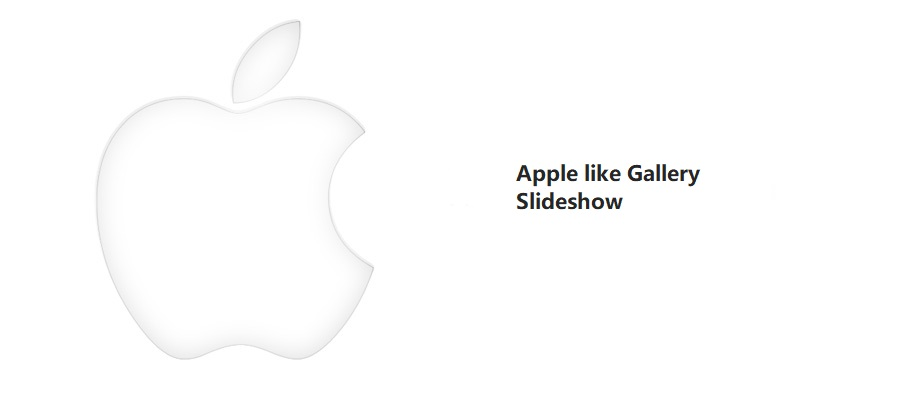
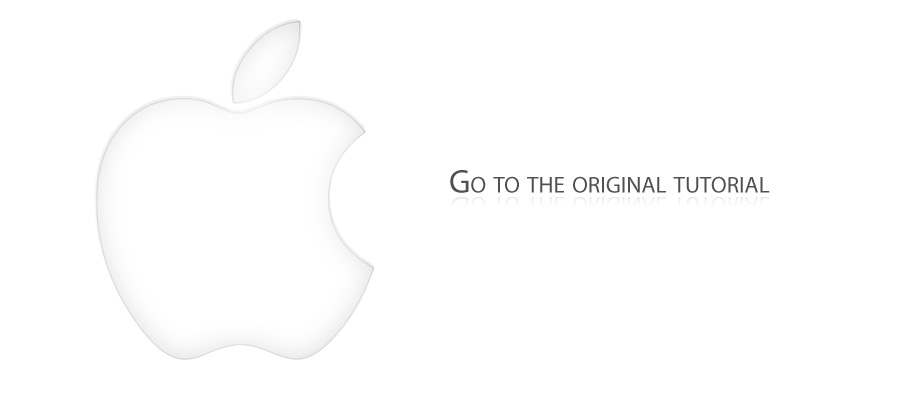
苹果风格轮播

Changed region(s): [[0.487, 0.39, 0.8522, 0.54]]

diff --git a/slides-demo-3/index.html b/slides-demo-3/index.html
@@ -4,8 +4,8 @@
     <meta charset="UTF-8">
     <title>无缝轮播</title>
     <link rel="stylesheet" href="./style.css">
-	<script src="//at.alicdn.com/t/font_549498_dikx1978rsdlhaor.js
-"></script>
+	<!-- <script src="//at.alicdn.com/t/font_549498_dikx1978rsdlhaor.js
+"></script> -->
 </head>
 <body>
 	<div class="container">
@@ -13,49 +13,43 @@
 				<b>Slideshow</b>
 		</h1>	
 		<h4>View the	
-		<a href="https://github.com/Phoebe-choi/slides-demo/tree/master/slides-demo-3" target="_blank">code »</a>
+		<a href="https://phoebe-choi.github.io/slides-demo/slides-demo-3/" target="_blank">original tutorial »</a>
 		</h4>
 		<div  class="window">
 			<div id=slides class="images">
 				<img src="./img-1/1.jpg" alt="图片" width="900" height="400">
 				<img src="./img-1/2.jpg" alt="图片" width="900" height="400">
 				<img src="./img-1/3.jpg" alt="图片" width="900" height="400">
-				<img src="./img-1/4.jpg" alt="图片" width="900" height="400">
+				<img src="./img-1/4-3.jpg" alt="图片" width="900" height="400">
 			</div>
-		</div>
+		
 		<div id=controls style="text-align: center;">
-			<!-- <button id="previous" class="previous">上一张</button> -->
 			<svg id=previous class="icon" aria-hidden="true">
     		<use xlink:href="#icon-51"></use>
 			</svg>
-			<!-- <button id="next" class="next">下一张</button> -->
 			<svg id="next" class="icon" aria-hidden="true">
     		<use xlink:href="#icon-52"></use>
 			</svg>
 		</div>
-		<div id=buttonWrapper style="text-align: center;">
-			<button>
-				<svg class="icon" aria-hidden="true">
-    			<use xlink:href="#icon-Macbook"></use>
-				</svg>
+		<div class="footer">
+			<div id=buttonWrapper style="text-align: center;">
+			<button style="background:url(./img-1/1-1.png); 
+ width:32px; height:32px; background-repeat:no-repeat;">
 			</button>
-			<button>
-				<svg class="icon" aria-hidden="true">
-    			<use xlink:href="#icon-iphone"></use>
-				</svg>
+			<button style="background:url(./img-1/2-2.png);  
+ width:32px; height:32px; background-repeat:no-repeat;">
 			</button>
-			<button>
-				<svg class="icon" aria-hidden="true">
-    			<use xlink:href="#icon-Mac"></use>
-				</svg>
+			<button style="background:url(./img-1/3-3.png); 
+ width:32px; height:32px; background-repeat:no-repeat;">
 			</button>
-			<button>
-				<svg class="icon" aria-hidden="true">
-    			<use xlink:href="#icon-about"></use>
-				</svg>
+			<button style="background:url(./img-1/thumb_about.png); 
+ width:32px; height:32px; background-repeat:no-repeat;">
 			</button>
 		</div>
-	</div>	
+		</div>
+	</div>
+	<p>This is a tutorialzine demo. View the <a href="https://phoebe-choi.github.io/slides-demo/slides-demo-3/" target="_blank"> original tutorial</a> to read and download the source files.</p>
+	<p>The gallery features artwork from <a href="https://phoebe-choi.github.io/slides-demo/slides-demo-3/">rambocre, pickupjojo</a> and <a href="https://phoebe-choi.github.io/slides-demo/slides-demo-3/">codenamebender</p>
     <script src="//apps.bdimg.com/libs/jquery/2.1.4/jquery.min.js"></script>
     <script src="./main.js"></script>
 </body>

diff --git a/slides-demo-3/style.css b/slides-demo-3/style.css
@@ -3,24 +3,20 @@
 body{
 	background: #F2F2F2;	
 	margin: 0;
+	font-family:"Helvetica",sans-serif;
+	text-align: center;
 }
 h1{
-	color: #444444;
-	font-family:"Helvetica",sans-serif;
 	padding-top: 30px;
-	text-align: center;
 	font-size: 40px;
 	font-weight: normal;
 }
 h4{
-	text-align: center;
-	color: #444444;
 	font-weight: normal;
 }
 a{
 	color: #0196e3;
 	text-decoration:none;
-	text-align: center;
 	display: inline-block;
 	margin-top:10px; 
 	font-weight: normal;
@@ -28,14 +24,11 @@ a{
 a:hover{
 	text-decoration:underline;
 }
+p{
+	font-size: 13px;
+}
 .container{
 	position: relative;
-}
-.icon {
-   width: 1em; height: 1em;
-   vertical-align: -0.15em;
-   fill: currentColor;
-   overflow: hidden;
 }
 .window{
 	width:900px;
@@ -46,19 +39,24 @@ a:hover{
 }
 .images{
 	display: flex;
-	transition: all 0.3s;
-	
+	transition: all .5s;
 }
 .images>img{
 	width:100%;
 }
+.footer{
+	background-color: #F1F1F1;
+}
 #buttonWrapper button{
 	cursor: pointer;
+	display: inline-block;
+	padding: 15px 16px;
 	border: none;
-	width:55px;
-	height:41px;
-	border-radius:3px;
-	margin-left: 4px;
+	border-radius:1px;
+	outline:none; 
+	margin-left: 10px;
+	margin-top: 10px;
+	margin-bottom: 6px;
 }
 #controls svg#previous{
 	cursor: pointer;
@@ -67,7 +65,6 @@ a:hover{
 	top:347px;
 	left:245px;
 	position: absolute;
-
 }
 #controls svg#next{
 	cursor: pointer;
@@ -76,8 +73,4 @@ a:hover{
 	top:347px;
 	right:245px;
 	position: absolute;
-}
-#buttonWrapper button svg{
-	width: 35px;
-	height: 30px;
 }
